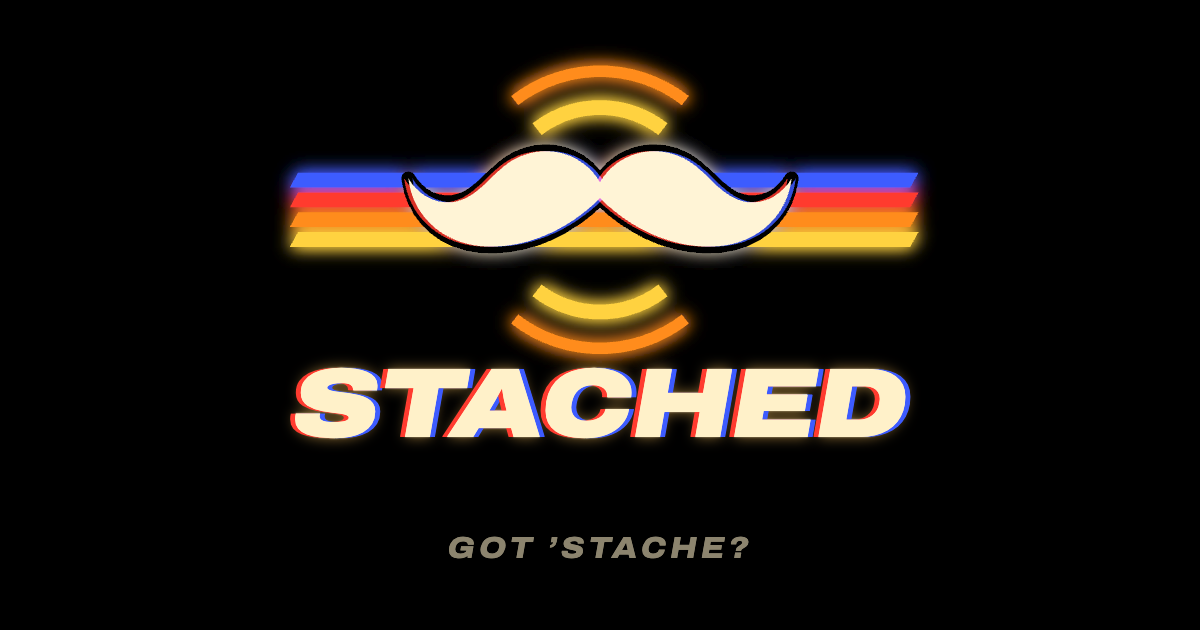
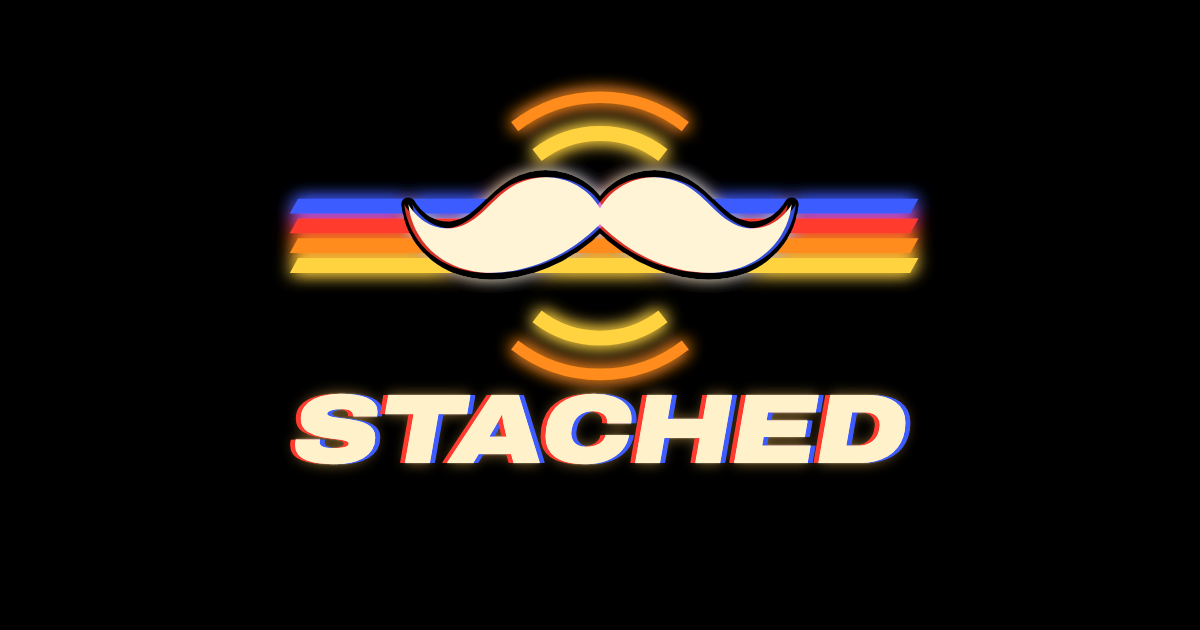
stached: drop the tagline from the preview card
The card now shows Gerald, the title, and the day, moved down to stay
centered. The link's description still reads "Got 'stache?".

Changed region(s): [[0.2158, 0.0603, 0.7708, 0.754], [0.37, 0.8444, 0.6475, 0.9048]]

diff --git a/stached-api/card/art.html b/stached-api/card/art.html
@@ -20,7 +20,6 @@
         --bg: #000;
         --ink: #fff1c9;
         --face: #fff4d6;
-        --muted: rgba(255, 241, 201, 0.55);
         --red: #ff3b2f;
         --blue: #3d5bff;
         --c1: #ffd23f;
@@ -79,13 +78,6 @@
         color: var(--ink);
         text-shadow: var(--glow);
       }
-      .tagline {
-        font-weight: 800;
-        font-stretch: 112%;
-        font-size: 30px;
-        letter-spacing: 0.14em;
-        color: var(--muted);
-      }
       /* What card.ts draws per request, shown here for the whole picture */
       .border {
         position: absolute;
@@ -118,10 +110,9 @@
   </head>
   <body>
     <div class="card" id="card">
-      <svg class="logo" id="logo" viewBox="0 0 400 184" style="top: 58px" role="img" aria-label="Gerald the mustache"></svg>
-      <p class="caps title" style="top: 356px">Stached</p>
-      <p class="caps day" id="day" style="top: 474px">#12 · Wed, Sep 30</p>
-      <p class="caps tagline" style="top: 532px">Got ’stache?</p>
+      <svg class="logo" id="logo" viewBox="0 0 400 184" style="top: 84px" role="img" aria-label="Gerald the mustache"></svg>
+      <p class="caps title" style="top: 382px">Stached</p>
+      <p class="caps day" id="day" style="top: 500px">#12 · Wed, Sep 30</p>
       <div class="border" id="border"></div>
       <div class="crt" id="crt"></div>
     </div>
